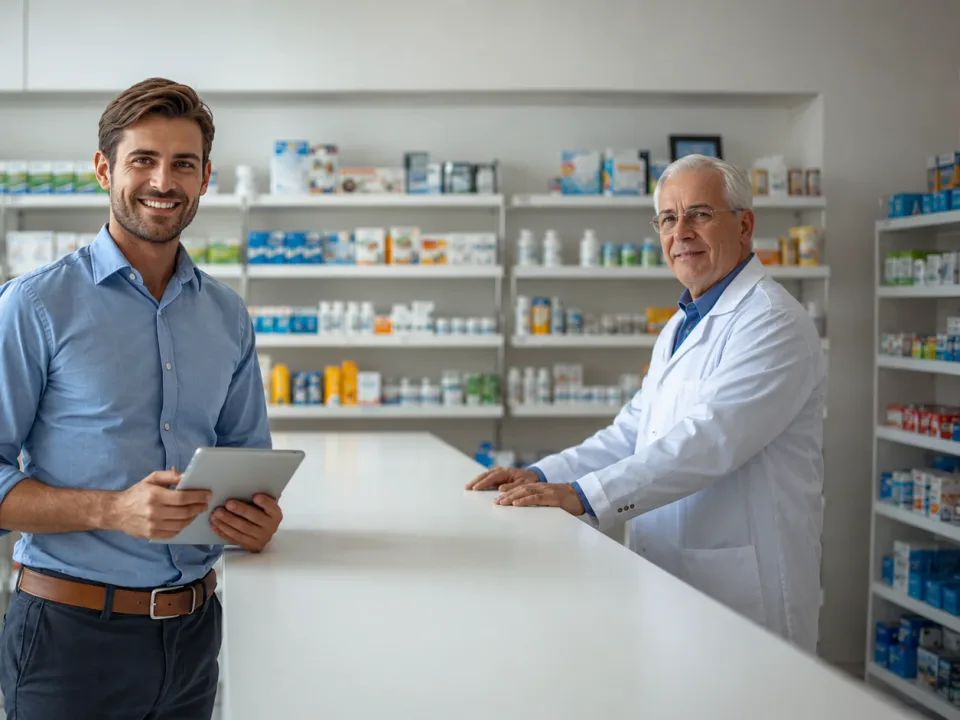
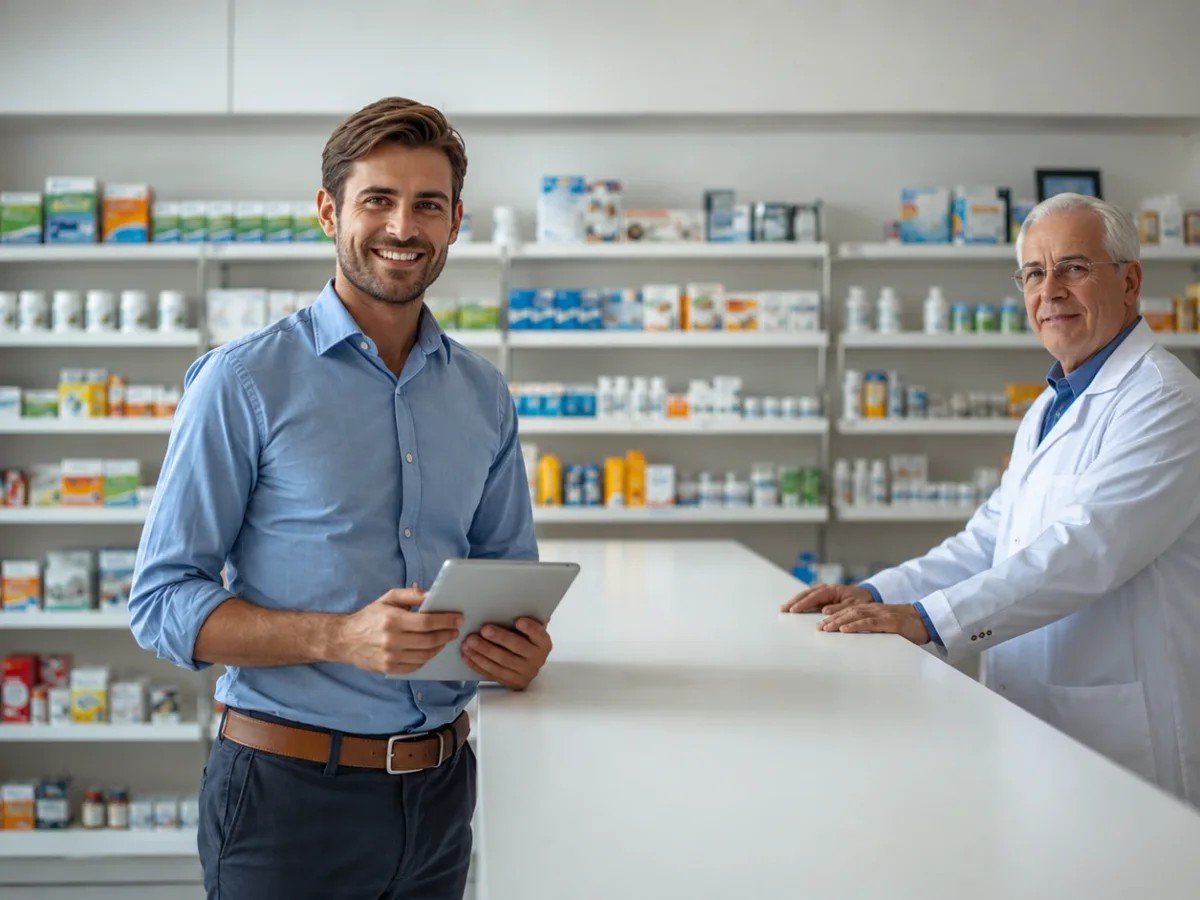
fix(landing): recortar fotos de setores em 4:3 para mostrar as duas pessoas (#24)
O aspect-ratio 4:5 (retrato) cortava metade da largura das fotos originais
(16:9), escondendo uma das duas pessoas em farmacia, distribuidora, outros
e descentralizando supermercado. Volta o container para aspect-[4/3] e
reprocessa as 4 fotos a partir da imagem original com recorte central,
enquadrando as duas pessoas de forma natural em todos os cards.

diff --git a/src/components/landing/data.ts b/src/components/landing/data.ts
@@ -39,11 +39,11 @@ export const NAV_IDS = NAV.map((n) => n.id);
 export const industries = [
   { name: "Construção",     icon: Building2,    image: "/assets/setor_materiais.webp",     objectPosition: "center" },
   { name: "Supermercados",  icon: ShoppingCart,  image: "/assets/setor_supermercado.webp", objectPosition: "center" },
-  { name: "Farmácias",      icon: PlusIcon,      image: "/assets/setor_farmacia.webp",     objectPosition: "40% 50%" },
+  { name: "Farmácias",      icon: PlusIcon,      image: "/assets/setor_farmacia.webp",     objectPosition: "center" },
   { name: "Distribuidoras", icon: Store,         image: "/assets/setor_distribuidora.webp", objectPosition: "center" },
   { name: "Serviços",       icon: Briefcase,     image: "/assets/setor_servicos.webp",     objectPosition: "center" },
   { name: "Agronegócio",    icon: Wheat,         image: "/assets/setor_agro.webp",         objectPosition: "center" },
-  { name: "Outros",         icon: Zap,           image: "/assets/setor_outros.webp",       objectPosition: "60% 50%" },
+  { name: "Outros",         icon: Zap,           image: "/assets/setor_outros.webp",       objectPosition: "center" },
 ];
 
 export const integrations = [

diff --git a/src/components/landing/Setores.tsx b/src/components/landing/Setores.tsx
@@ -24,7 +24,7 @@ export function SetoresSection() {
           {industries.map((item, idx) => (
             <FadeUp key={item.name} delay={idx * 0.05}>
               <div className="group h-full rounded-2xl overflow-hidden border border-slate-200/80 bg-white shadow-sm hover:shadow-xl hover:-translate-y-1 transition-all duration-300">
-                <div className="aspect-[4/5] overflow-hidden bg-slate-100">
+                <div className="aspect-[4/3] overflow-hidden bg-slate-100">
                   <img
                     src={item.image}
                     alt={item.name}
